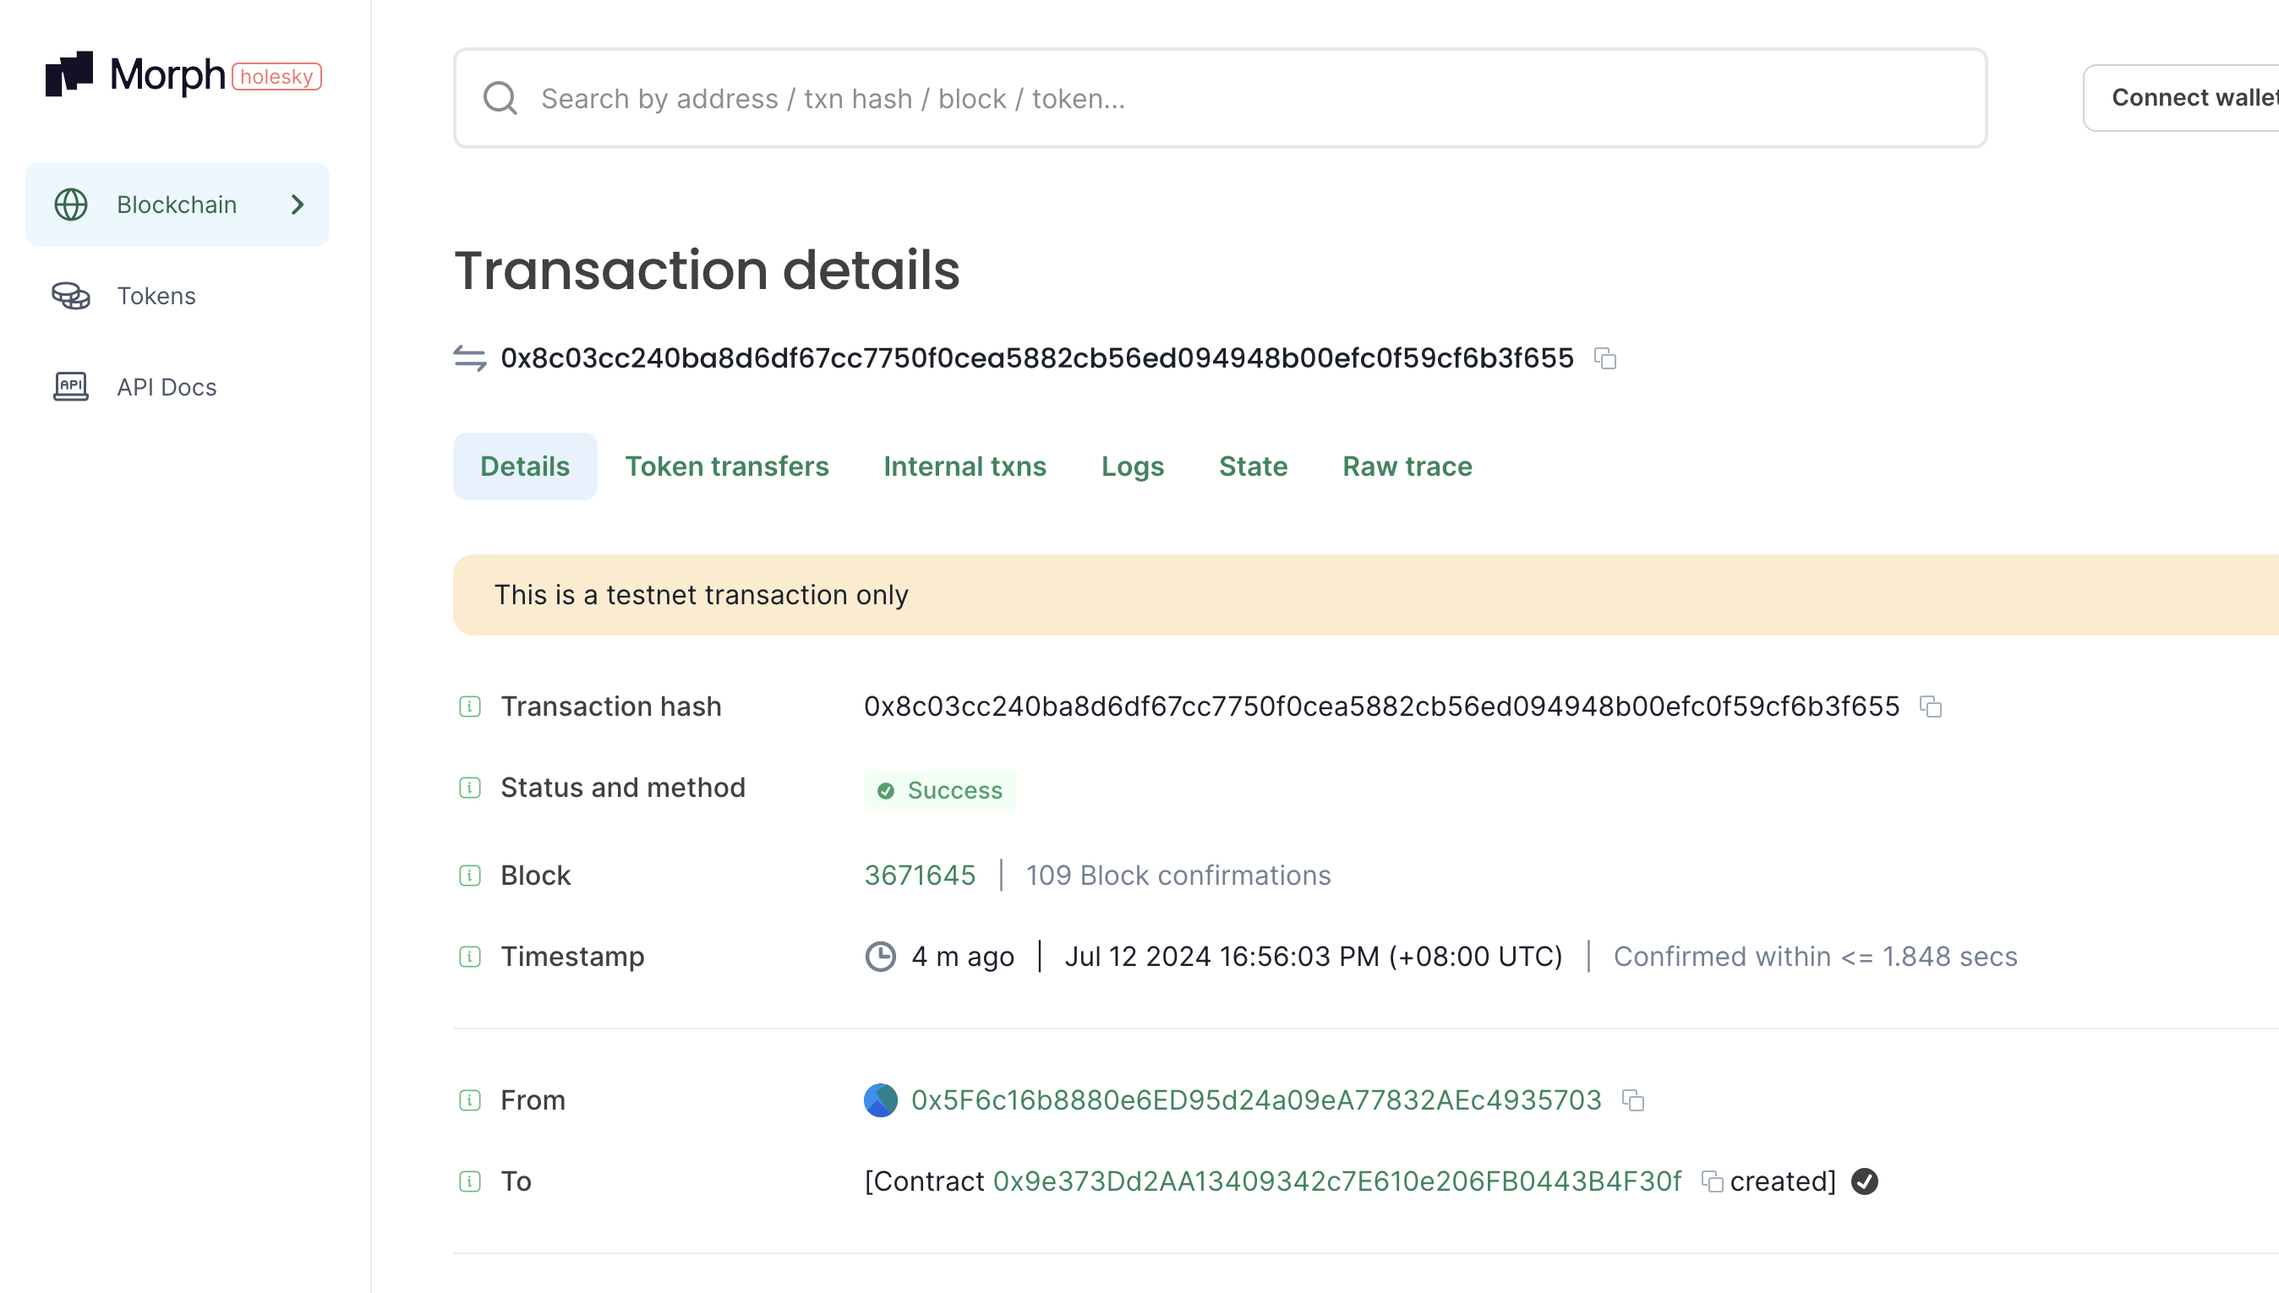
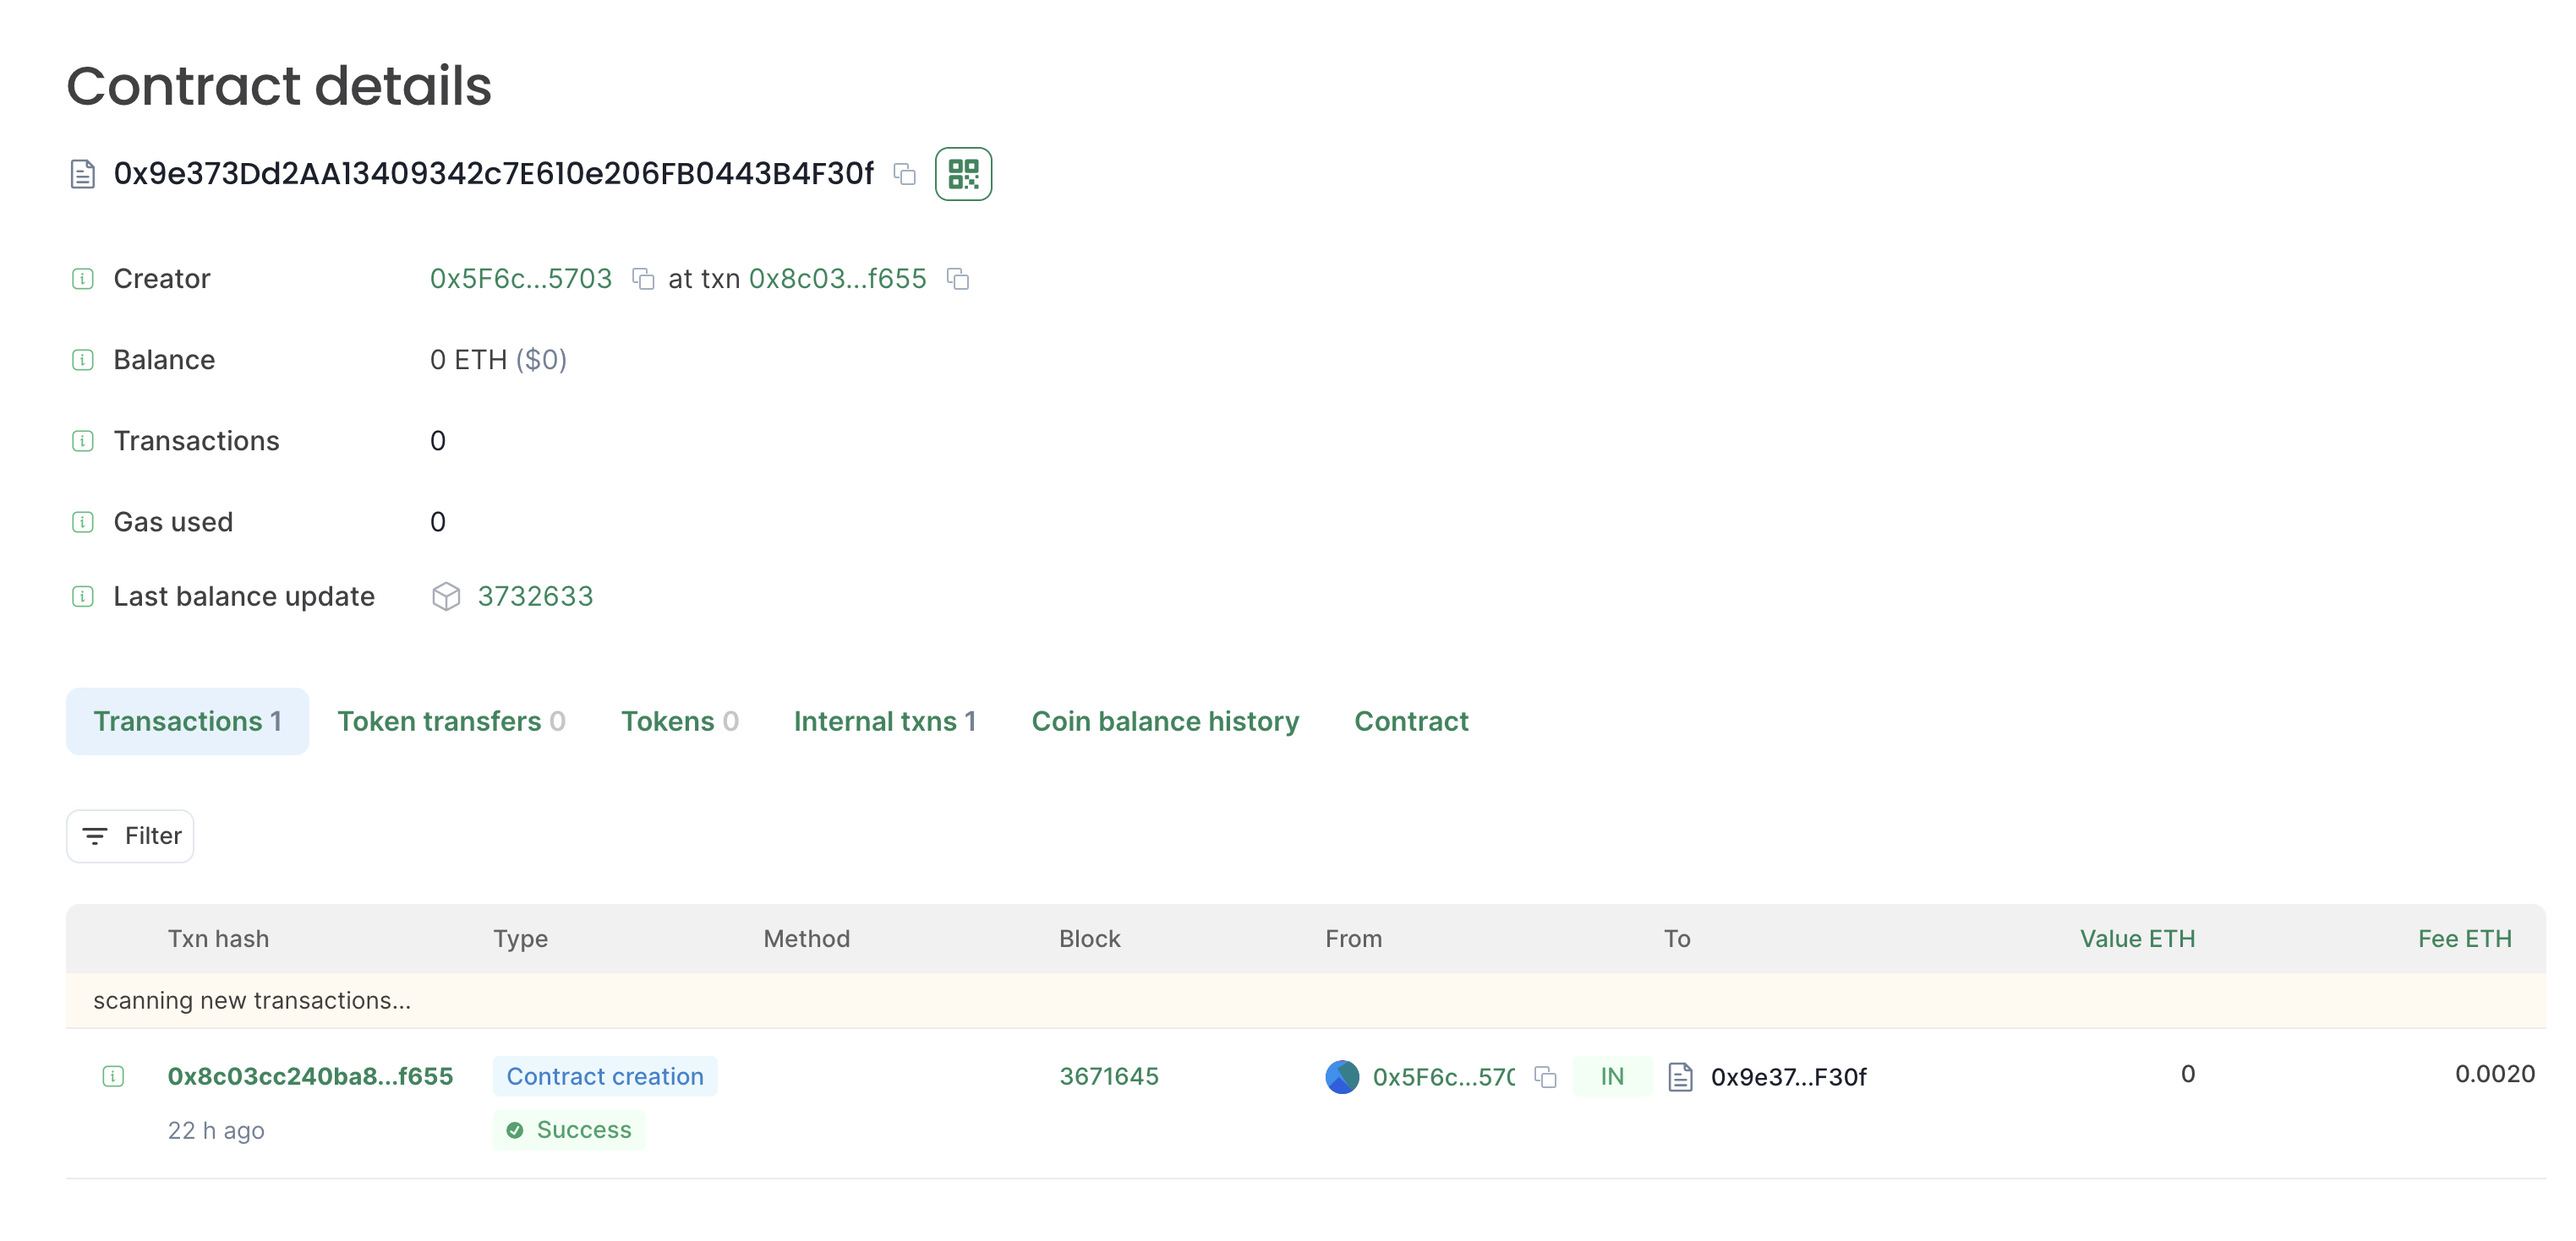
feat: 修改合约地址和验证截图

diff --git a/members/zhouBoom/task8/readme.md b/members/zhouBoom/task8/readme.md
@@ -1,1 +1,1 @@
-https://explorer-holesky.morphl2.io/tx/0x8c03cc240ba8d6df67cc7750f0cea5882cb56ed094948b00efc0f59cf6b3f655?tab=index
+https://explorer-holesky.morphl2.io/address/0x9e373Dd2AA13409342c7E610e206FB0443B4F30f
